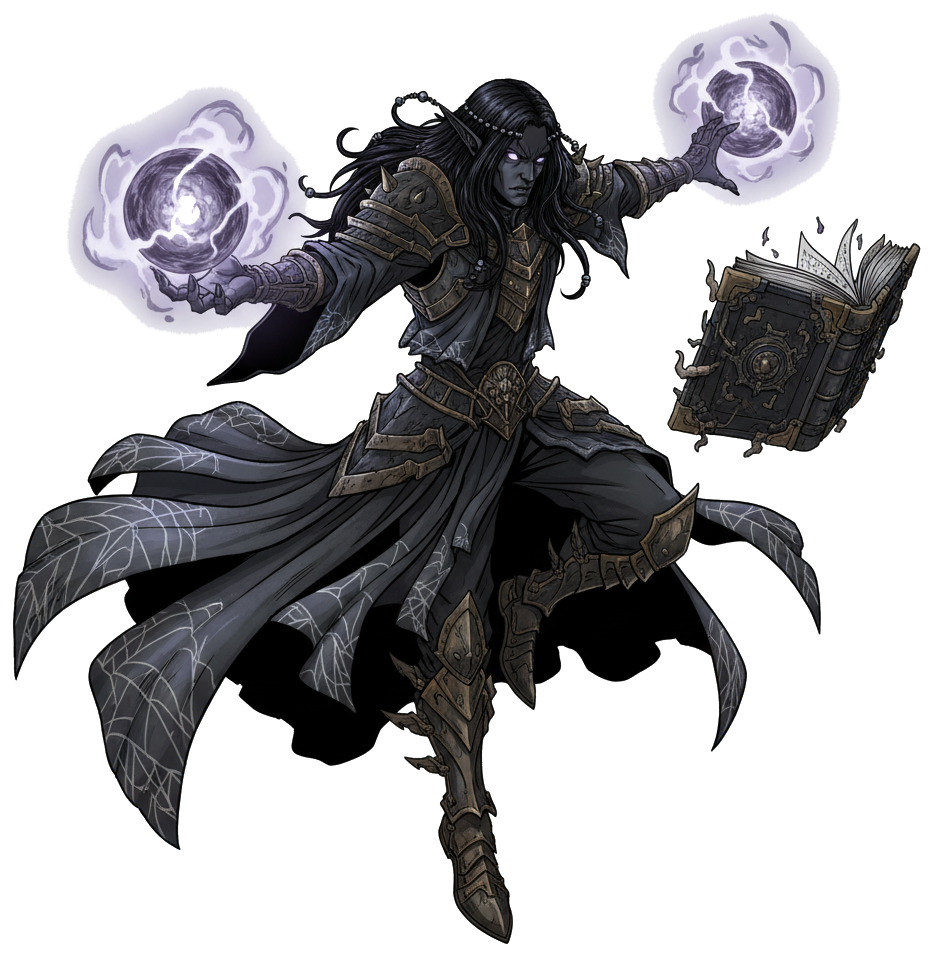
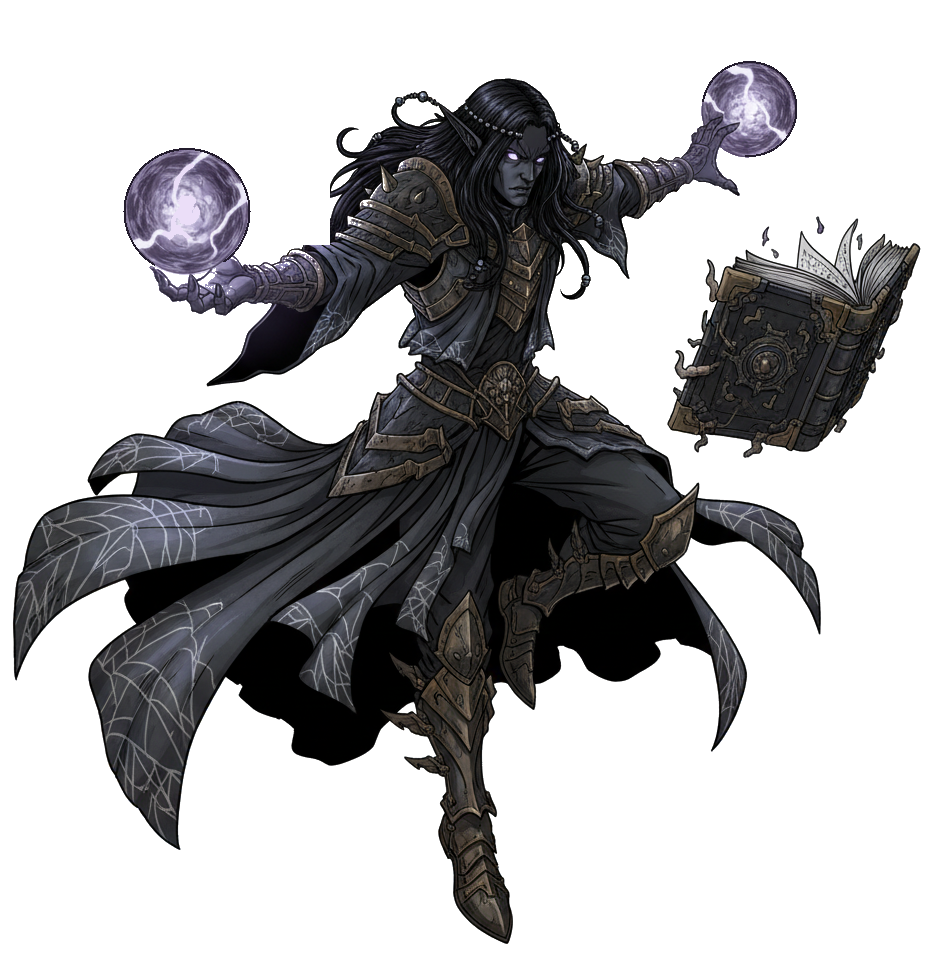
art(neutral): remove white background remnants around orbs and hair on Vizeran (neutral_121) and bump cache to v38

Changed region(s): [[0.0622, 0.091, 0.373, 0.364], [0.6838, 0.0, 0.9014, 0.2123]]

diff --git a/src/components/CardView.tsx b/src/components/CardView.tsx
@@ -363,7 +363,7 @@ export const CardView: React.FC<CardViewProps> = ({
           <div className={`mtg-token-art aura-${displayCard.domain}`}>
             {!imgError && displayCard.imagePath ? (
               <img
-                src={`${displayCard.imagePath}?v=37`}
+                src={`${displayCard.imagePath}?v=38`}
                 alt={displayName}
                 className="mtg-token-img"
                 onError={() => setImgError(true)}
@@ -518,7 +518,7 @@ export const CardView: React.FC<CardViewProps> = ({
 
           {!imgError && displayCard.imagePath ? (
             <img
-              src={`${displayCard.imagePath}?v=37`}
+              src={`${displayCard.imagePath}?v=38`}
               alt={displayName}
               className="card-cutout-img"
               onError={() => setImgError(true)}
